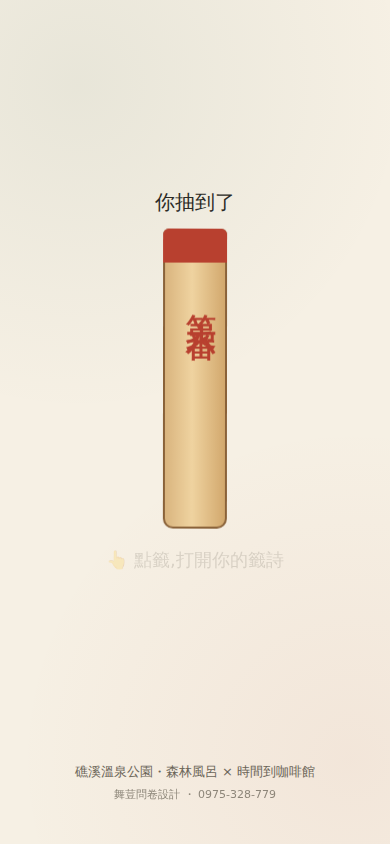
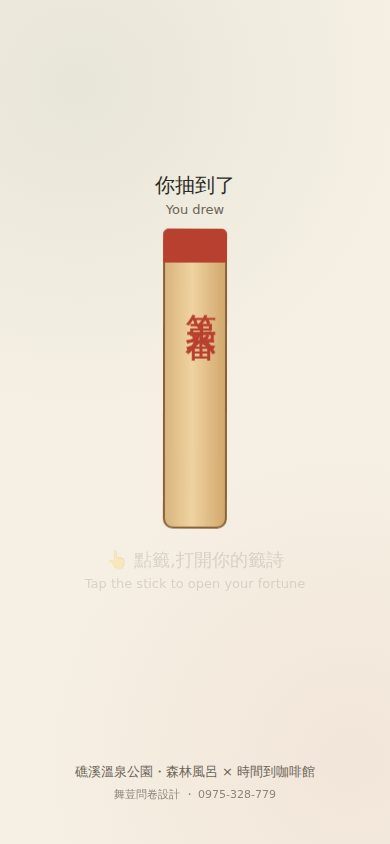
御神籤改 12 支籤(新增花路吉、拼圖吉、自在吉、快樂吉)、恢復開運指南與不同幸運飲品、題目與籤詩加英文
Claude-Session: https://claude.ai/code/session_01F6yyhJXwLMGLQPqwSGyNKN

Changed region(s): [[0.4, 0.1848, 0.5846, 0.2773]]

diff --git a/行銷/森林風呂御神籤/Index.html b/行銷/森林風呂御神籤/Index.html
@@ -127,9 +127,15 @@
   @keyframes unfold { from { transform: scaleY(.1); opacity: 0; } to { transform: none; opacity: 1; } }
   .fno { font-family: "Noto Serif TC", serif; color: var(--ink-2); letter-spacing: .3em; }
   .jie { font-family: "Noto Serif TC", serif; font-weight: 700; color: var(--forest); font-size: 17px; margin: 0 0 12px; }
-  .cafe { background: var(--forest-2); border-radius: 10px; padding: 8px 12px; font-size: 16px; line-height: 1.6; }
-  .cafe b { color: var(--forest); }
-  .cafe span { font-size: 13px; color: var(--ink-2); }
+  .en { display: block; font-family: "Noto Sans TC", system-ui, sans-serif; font-weight: 400; font-size: 13px; color: var(--ink-2); line-height: 1.35; letter-spacing: 0; }
+  .qtext .en { font-size: 14px; margin-top: 2px; }
+  .opt .en { font-size: 12px; }
+  .chip .en { display: inline; font-size: 11px; }
+  .items { text-align: left; border-top: 1px dashed var(--torii-2); border-bottom: 1px dashed var(--torii-2); padding: 6px 2px; margin-bottom: 10px; font-size: 15px; line-height: 1.7; }
+  .items b { color: var(--torii); display: inline-block; width: 3.2em; }
+  .cafe { background: var(--forest-2); border-radius: 10px; padding: 8px 12px; text-align: left; font-size: 15px; line-height: 1.6; }
+  .cafe .h { font-weight: 700; color: var(--forest); }
+  .cafe .note2 { font-size: 12px; color: var(--ink-2); }
   .claim { margin-top: 12px; background: var(--torii); color: #fff; border-radius: 14px; padding: 12px; text-align: center; box-shadow: 0 4px 0 #8c2e21; }
   .claim .big { font-size: 20px; font-weight: 900; }
   .claim .big2 { font-size: 18px; font-weight: 700; line-height: 1.5; }
@@ -151,7 +157,7 @@
   <!-- 開始 -->
   <section class="screen on" id="s-start">
     <h1>森林風呂御神籤</h1>
-    <p class="sub">泡完湯,來抽一支好運籤吧 ♨</p>
+    <p class="sub">泡完湯,來抽一支好運籤吧 ♨<span class="en">Forest Onsen Fortune — draw your lucky slip!</span></p>
     <div class="tube-box">
       <svg class="tube" id="tube" viewBox="0 0 180 230" aria-hidden="true">
         <g fill="#c9a06d" stroke="#8a6239" stroke-width="2">
@@ -172,9 +178,9 @@
         <text x="90" y="174" text-anchor="middle" font-family="Noto Serif TC, serif" font-weight="900" font-size="22" fill="#b8402f">籤</text>
       </svg>
     </div>
-    <div class="gift">答完 <b>10</b> 支籤,送你<br><b>時間到咖啡館 折 30 元</b> ☕</div>
-    <button class="btn" id="btn-draw">搖一搖・抽籤</button>
-    <p class="note">大約 2 分鐘・不用填名字電話</p>
+    <div class="gift">答完 <b>10</b> 支籤,送你<br><b>時間到咖啡館 折 30 元</b> ☕<span class="en">Answer 10 quick questions, get NT$30 off at Time Café</span></div>
+    <button class="btn" id="btn-draw">搖一搖・抽籤 <span style="font-size:15px;font-weight:500">Draw</span></button>
+    <p class="note">大約 2 分鐘・不用填名字電話<span class="en">About 2 minutes · No name or phone needed</span></p>
   </section>
 
   <!-- 題目 -->
@@ -193,10 +199,10 @@
     <div class="sticks" id="sticks2"></div>
     <div class="qcard">
       <div class="qno">最後一句話</div>
-      <div class="qtext" style="margin-top:14px">有什麼想跟我們說的嗎?💬</div>
+      <div class="qtext" style="margin-top:14px">有什麼想跟我們說的嗎?💬<span class="en">Anything you'd like to tell us? (optional)</span></div>
       <textarea id="msg" maxlength="300" placeholder="可以不寫,直接按下面抽籤詩"></textarea>
       <div class="mail">
-        <div class="grp-label">📮 想收到森林風呂的優惠和活動消息嗎?(選填)</div>
+        <div class="grp-label">📮 想收到森林風呂的優惠和活動消息嗎?(選填)<span class="en">Get Forest Onsen offers by email (optional)</span></div>
         <input type="email" id="email" maxlength="100" autocomplete="email" inputmode="email" placeholder="留下 email(不留也能領咖啡券)">
         <label class="agree"><input type="checkbox" id="agree"><span>我同意提供 email 收取優惠訊息(<a href="#" id="pv-toggle">個資說明</a>)</span></label>
         <div class="privacy" id="privacy" hidden>
@@ -211,35 +217,38 @@
       </div>
     </div>
     <div style="height:16px"></div>
-    <button class="btn" id="btn-submit">看我的籤詩 🎋</button>
+    <button class="btn" id="btn-submit">看我的籤詩 🎋 <span style="font-size:15px;font-weight:500">See my fortune</span></button>
     <button class="btn ghost" id="btn-back2">← 上一籤</button>
   </section>
 
   <!-- 抽到的籤支 -->
   <section class="screen" id="s-stick">
     <div class="stickwrap">
-      <div class="serif" style="font-size:20px">你抽到了</div>
+      <div class="serif" style="font-size:20px">你抽到了<span class="en">You drew</span></div>
       <div class="bigstick" id="bigstick"><span id="stickno"></span></div>
-      <div class="tap">👆 點籤,打開你的籤詩</div>
+      <div class="tap">👆 點籤,打開你的籤詩<span class="en">Tap the stick to open your fortune</span></div>
     </div>
   </section>
 
-  <!-- 結果(手機一個畫面看完) -->
+  <!-- 結果 -->
   <section class="screen" id="s-result">
-    <div class="again" id="again" hidden>今天已經抽過囉 😊</div>
+    <div class="again" id="again" hidden>今天已經抽過囉 😊 <span style="font-weight:400;font-size:13px">Already drawn today</span></div>
     <div class="omikuji" id="slip">
       <div class="fno" id="fno"></div>
       <div class="luck" id="luck"></div>
+      <div class="en" id="luck-en" style="margin:-4px 0 6px;font-size:14px"></div>
       <div class="poem" id="poem"></div>
       <div class="jie" id="jie"></div>
-      <div class="cafe">☕ 今日幸運飲品:<b>宜蘭金棗茶</b><br><span>時間到咖啡館・就在礁溪溫泉公園裡</span></div>
+      <div class="items" id="items"></div>
+      <div class="cafe" id="cafe"></div>
     </div>
     <div class="claim">
       <div class="big">🎁 時間到咖啡館 折 30 元</div>
       <div class="coupon"><span class="no" id="cno"></span><span class="live"><span class="dot"></span><span id="clock"></span></span></div>
       <div class="big2">👉 出示此畫面到<b>【森林風呂櫃台】</b><br>索取咖啡券</div>
+      <div style="font-size:13px;opacity:.95;margin-top:4px">Show this screen at the Forest Onsen counter<br>to get your NT$30 Time Café coupon</div>
     </div>
-    <div class="rules">限公園一館使用・每次限用 1 張・每人每天 1 次・不兌現不找零</div>
+    <div class="rules">限公園一館使用・每次限用 1 張・每人每天 1 次・不兌現不找零<br>One coupon per visit · One per person per day · No cash value</div>
   </section>
 
   <div class="foot">礁溪溫泉公園・森林風呂 × 時間到咖啡館
@@ -312,16 +321,56 @@
   var AGES = ["20 以下", "21-30 歲", "31-40 歲", "41-50 歲", "51-60 歲", "61-70 歲", "71 以上"];
   var FREQS = ["今天第一次來 🎉", "一年 3 次以下", "一年 3~10 次", "一年 10 次以上", "天天都來 😎"];
 
-  // 籤詩(w=抽中權重,目前 8 種機率相同);幸運飲品統一為宜蘭金棗茶(寫在結果頁 HTML)
+  // 12 支籤(w=抽中權重,目前機率相同)。飲品需為時間到咖啡館實際供應品項
   var FORTUNES = [
-    { n: "第一番", l: "時間到大吉", w: 1, p: "時到花開香滿徑<br>湯暖心安福自臨", k: "大有進益,放手去做便吉利" },
-    { n: "第二番", l: "大吉", w: 1, p: "雲開見月心所願<br>一路春風到眼前", k: "如願以償" },
-    { n: "第三番", l: "身體吉", w: 1, p: "溫泉潤骨身輕盈<br>一夜好眠到天明", k: "身體是最好的本錢,好好照顧它" },
-    { n: "第四番", l: "咖啡館吉", w: 1, p: "一杯香醇留午後<br>好友相伴話悠悠", k: "好的相遇,就在轉角的咖啡館" },
-    { n: "第五番", l: "泡湯吉", w: 1, p: "竹林風過湯煙起<br>煩惱隨水悄悄離", k: "會是一段愉快的旅程" },
-    { n: "第六番", l: "森林吉", w: 1, p: "綠蔭深處聞鳥語<br>心靜自然見光明", k: "放慢腳步,好運就在身邊" },
-    { n: "第七番", l: "福吉", w: 1, p: "靜水深流藏智慧<br>細細思量見花開", k: "靜下心來好好思考,定有成果" },
-    { n: "第八番", l: "光明吉", w: 1, p: "心若坦蕩天自晴<br>一路光明照前程", k: "保持一顆坦率的心,是邁向光明人生的起點" }
+    { n: "第一番", l: "時間到大吉", le: "Great Fortune · Time Has Come", w: 1, p: "時到花開香滿徑<br>湯暖心安福自臨",
+      k: "大有進益,放手去做便吉利", ke: "Great progress ahead — go for it and luck will follow.",
+      wish: "時機到了,勇敢開口就能成", health: "氣色正好,神清氣爽", travel: "隨心出發,處處有驚喜",
+      drink: "宜蘭金棗茶", de: "Yilan Kumquat Tea", act: "到時間到咖啡館坐一下,把好運喝進心裡" },
+    { n: "第二番", l: "大吉", le: "Great Blessing", w: 1, p: "雲開見月心所願<br>一路春風到眼前",
+      k: "如願以償", ke: "Your wish will come true.",
+      wish: "心想事成", health: "精神飽滿", travel: "一路順風",
+      drink: "熱拿鐵", de: "Hot Latte", act: "跟今天同行的人說聲謝謝" },
+    { n: "第三番", l: "身體吉", le: "Blessing of Well-being", w: 1, p: "溫泉潤骨身輕盈<br>一夜好眠到天明",
+      k: "自性可以創造任何可能", ke: "Your true self can create anything.",
+      wish: "慢慢來,會實現", health: "大吉,今晚好眠", travel: "放慢腳步,不趕行程",
+      drink: "宜蘭金棗茶", de: "Yilan Kumquat Tea", act: "泡完湯記得多喝水" },
+    { n: "第四番", l: "咖啡館吉", le: "Café Blessing", w: 1, p: "一杯香醇留午後<br>好友相伴話悠悠",
+      k: "每一塊拼圖都是一種滋味", ke: "Every piece of the puzzle has its own flavor.",
+      wish: "與人分享,好事加倍", health: "心情放鬆,身體自然好", travel: "在喜歡的地方多留一會兒",
+      drink: "手沖咖啡", de: "Pour-over Coffee", act: "到咖啡館點一杯,和朋友聊聊天" },
+    { n: "第五番", l: "泡湯吉", le: "Hot Spring Blessing", w: 1, p: "竹林風過湯煙起<br>煩惱隨水悄悄離",
+      k: "會是一段愉快的旅程", ke: "It will be a delightful journey.",
+      wish: "放下煩惱,願望自來", health: "筋骨舒暢", travel: "大吉,處處是好風景",
+      drink: "冰美式", de: "Iced Americano", act: "泡完湯,到咖啡館喝杯涼的" },
+    { n: "第六番", l: "森林吉", le: "Forest Blessing", w: 1, p: "綠蔭深處聞鳥語<br>心靜自然見光明",
+      k: "善意的存在,是路徑的發展", ke: "Kindness shapes the path ahead.",
+      wish: "耐心等待,時機將至", health: "多走走,身心舒暢", travel: "在公園散散步,會有小驚喜",
+      drink: "宜蘭金棗茶", de: "Yilan Kumquat Tea", act: "在公園散步十分鐘,再去咖啡館歇歇腳" },
+    { n: "第七番", l: "福吉", le: "Blessing of Fortune", w: 1, p: "靜水深流藏智慧<br>細細思量見花開",
+      k: "靜下心來好好思考,定有成果", ke: "Calm your mind and think it through — success will come.",
+      wish: "想清楚再出發,必有收穫", health: "早睡早起", travel: "計畫好再出門",
+      drink: "熱美式", de: "Hot Americano", act: "找個安靜角落,喝杯咖啡想一想" },
+    { n: "第八番", l: "光明吉", le: "Bright Blessing", w: 1, p: "心若坦蕩天自晴<br>一路光明照前程",
+      k: "保持一顆坦率的心,是邁向光明人生的起點", ke: "An honest heart is the first step to a bright life.",
+      wish: "真心相待,自有回應", health: "心情開朗,身體輕鬆", travel: "一路晴朗,放心出發",
+      drink: "冰拿鐵", de: "Iced Latte", act: "把今天的好心情,分享給身邊的人" },
+    { n: "第九番", l: "花路吉", le: "Flower Path Blessing", w: 1, p: "一道微光照前方<br>花開滿路送芬芳",
+      k: "送上一道光,走向花路", ke: "A ray of light guides you onto a path of flowers.",
+      wish: "心中所盼,正在路上", health: "神采奕奕", travel: "沿途花開,處處美景",
+      drink: "宜蘭金棗茶", de: "Yilan Kumquat Tea", act: "拍一張公園的花,留住今天的光" },
+    { n: "第十番", l: "拼圖吉", le: "Puzzle Blessing", w: 1, p: "一片一片拼人生<br>酸甜滋味皆是真",
+      k: "人生是創造披薩的拼圖旅程", ke: "Life is a puzzle journey — built slice by slice, like a pizza.",
+      wish: "一步步拼湊,終會完整", health: "均衡飲食,元氣滿滿", travel: "走走停停,收集回憶",
+      drink: "熱拿鐵", de: "Hot Latte", act: "和朋友分享今天最開心的一件事" },
+    { n: "第十一番", l: "自在吉", le: "Blessing of Freedom", w: 1, p: "步步行來皆有意<br>心隨自在任東西",
+      k: "每個節點的意義,是自己賦予的", ke: "Every milestone means what you choose it to mean.",
+      wish: "照自己的節奏就好", health: "身心自在", travel: "隨興出發,不必趕路",
+      drink: "手沖咖啡", de: "Pour-over Coffee", act: "找個喜歡的位子,慢慢品嚐" },
+    { n: "第十二番", l: "快樂吉", le: "Blessing of Joy", w: 1, p: "笑迎晨光心自暖<br>此刻便是樂開端",
+      k: "準備快樂吧,每刻都是快樂的起點", ke: "Get ready to be happy — every moment is a new start of joy.",
+      wish: "好事就在眼前", health: "笑口常開", travel: "開心出門,平安回家",
+      drink: "冰拿鐵", de: "Iced Latte", act: "對著鏡子笑一個" }
   ];
   function drawFortune() {
     var total = 0, i, r;
@@ -330,6 +379,60 @@
     for (i = 0; i < FORTUNES.length; i++) { r -= FORTUNES[i].w; if (r < 0) return i; }
     return FORTUNES.length - 1;
   }
+  // 題目與選項英文(顯示用,存進試算表的仍是中文)
+  var EN = {
+    "今天的溫泉水,泡起來怎麼樣?": "How was the hot spring water today?",
+    "湯區環境乾淨嗎?": "Was the bathing area clean?",
+    "你從哪裡來?": "Where are you from?",
+    "整體來說,今天在森林風呂開心嗎?": "Overall, did you enjoy Forest Onsen today?",
+    "公園的風景,看起來舒服嗎?": "How do you like the park scenery?",
+    "公園走道、草地乾不乾淨?": "Were the park paths and lawns clean?",
+    "公園的廁所(含泡腳池旁)乾淨嗎?": "Were the park restrooms clean?",
+    "泡腳池乾淨嗎?": "Was the foot bath clean?",
+    "需要幫忙時,工作人員有主動協助、馬上處理嗎?": "Did staff help you promptly when needed?",
+    "垃圾分類、資源回收做得好嗎?": "How is the recycling and waste sorting?",
+    "園區防蚊蟲做得如何?🦟": "How is mosquito control in the park?",
+    "風呂的廁所乾淨嗎?": "Were the onsen restrooms clean?",
+    "櫃台人員親切嗎?": "Were the counter staff friendly?",
+    "在櫃台等候的時間,還可以接受嗎?": "Was the waiting time at the counter OK?",
+    "園區店家的服務怎麼樣?": "How was the service at shops in the park?",
+    "停車方便嗎?": "Was parking convenient?",
+    "停車場好不好找?": "Was the parking lot easy to find?",
+    "會推薦朋友來森林風呂嗎?": "Would you recommend Forest Onsen to friends?",
+    "礁溪溫泉公園的經營,有讓宜蘭觀光更好嗎?": "Does the park make Yilan tourism better?",
+    "有幫宜蘭的觀光形象加分嗎?": "Does it improve Yilan's tourism image?",
+    "園區有呈現宜蘭在地特色(在地食材、文化設計、自然風格)嗎?": "Does the park show local Yilan features?",
+    "園區的活動或佈置,讓你更認識宜蘭的文化或自然嗎?": "Did the park help you learn about Yilan?",
+    "園區有提供宜蘭觀光資訊(景點、餐廳、活動推薦)嗎?": "Did you find Yilan travel info here?",
+    "園區的免費公益活動、按摩小站,你覺得如何?": "How are the free events and massage corner?",
+    "在地民眾免費泡湯回饋活動,你覺得如何?": "How is the free bathing program for locals?",
+    "與佛光大學合作的在地創生商品,你覺得如何?": "How are the local products made with Fo Guang University?",
+    "這趟在宜蘭住幾晚?": "How many nights are you staying in Yilan?",
+    "今天跟誰一起來?": "Who did you come with today?",
+    "怎麼知道森林風呂的?": "How did you hear about Forest Onsen?",
+    "這趟還會去宜蘭哪裡?(選最主要的)": "Where else in Yilan are you going?",
+    "泡湯的時候,腦袋在想什麼?": "What's on your mind while soaking?",
+    "泡完湯,最想來一杯什麼?": "What would you like to drink after the bath?",
+    "如果森林風呂是一種動物,牠是?": "If Forest Onsen were an animal, it'd be…",
+    "非常滿意": "Very satisfied", "滿意": "Satisfied", "普通": "Neutral", "不滿意": "Dissatisfied", "非常不滿意": "Very dissatisfied",
+    "今天沒需要幫忙": "Didn't need help", "今天沒開車": "Didn't drive", "不清楚/沒注意": "Not sure",
+    "一定會": "Definitely", "應該會": "Probably", "還不確定": "Not sure yet", "應該不會": "Probably not",
+    "宜蘭在地": "Yilan local", "基隆、台北、新北": "Keelung / Taipei / New Taipei", "桃園、新竹、苗栗": "Taoyuan / Hsinchu / Miaoli",
+    "台中、彰化、南投": "Taichung / Changhua / Nantou", "雲林、嘉義、台南": "Yunlin / Chiayi / Tainan", "高雄、屏東": "Kaohsiung / Pingtung",
+    "花蓮、台東": "Hualien / Taitung", "離島": "Outlying islands", "國外": "From overseas",
+    "當天來回": "Day trip", "住 1 晚": "1 night", "住 2 晚": "2 nights", "住 3 晚以上": "3+ nights", "我住宜蘭": "I live in Yilan",
+    "自己來": "Alone", "伴侶": "Partner", "家人(帶小孩)": "Family with kids", "家人(帶長輩)": "Family with elders", "朋友": "Friends", "旅行團": "Tour group",
+    "親友推薦": "Friends & family", "Google 地圖": "Google Maps", "IG、FB": "Instagram / Facebook", "YouTube": "YouTube",
+    "旅遊網站、部落格": "Travel sites / blogs", "路過看到": "Walked by", "老客人了": "Regular visitor",
+    "只在礁溪": "Only Jiaoxi", "頭城、外澳": "Toucheng / Wai'ao", "宜蘭市": "Yilan City", "羅東": "Luodong",
+    "冬山、五結、三星": "Dongshan / Wujie / Sanxing", "蘇澳、南方澳": "Su'ao / Nanfang'ao", "大同、太平山": "Datong / Taipingshan", "還沒決定": "Not decided",
+    "什麼都沒想,放空中": "Nothing, just relaxing", "等一下吃什麼": "What to eat next", "工作…(不要想了)": "Work… (stop it!)",
+    "人生的大道理": "The meaning of life", "好想再泡一下": "I want to soak longer",
+    "熱咖啡": "Hot coffee", "冰咖啡": "Iced coffee", "金棗飲品": "Kumquat drink", "甜點配咖啡": "Dessert & coffee", "先躺一下再說": "A nap first",
+    "水豚(泡到不想動)": "Capybara", "日本猴(泡湯專家)": "Snow monkey", "烏龜(慢慢來)": "Turtle", "貓(舒服到瞇眼)": "Cat",
+    "今天第一次來 🎉": "First visit", "一年 3 次以下": "< 3 times a year", "一年 3~10 次": "3–10 times a year", "一年 10 次以上": "10+ times a year", "天天都來 😎": "Every day"
+  };
+  function en(t) { return EN[t] ? '<span class="en">' + EN[t] + "</span>" : ""; }
   var NUM = ["一", "二", "三", "四", "五", "六", "七", "八", "九", "十"];
   var TOTAL = 10;
 
@@ -369,11 +472,11 @@
     var body = $("qbody");
 
     if (q.basic) {
-      var h = '<div class="qtext">最後一籤!你是…</div>';
-      h += '<div class="grp-label">年齡</div><div class="chips" data-k="age">';
+      var h = '<div class="qtext">最後一籤!你是…<span class="en">Last one! About you</span></div>';
+      h += '<div class="grp-label">年齡 <span class="en" style="display:inline">Age</span></div><div class="chips" data-k="age">';
       AGES.forEach(function (a) { h += '<button class="chip' + (answers.age === a ? " sel" : "") + '" data-v="' + a + '">' + a + "</button>"; });
-      h += '</div><div class="grp-label">多久來泡一次?</div><div class="chips" data-k="freq">';
-      FREQS.forEach(function (a) { h += '<button class="chip' + (answers.freq === a ? " sel" : "") + '" data-v="' + a + '">' + a + "</button>"; });
+      h += '</div><div class="grp-label">多久來泡一次? <span class="en" style="display:inline">How often do you visit?</span></div><div class="chips" data-k="freq">';
+      FREQS.forEach(function (a) { h += '<button class="chip' + (answers.freq === a ? " sel" : "") + '" data-v="' + a + '">' + a + " " + en(a) + "</button>"; });
       h += "</div>";
       body.innerHTML = h;
       var groups = body.querySelectorAll(".chips");
@@ -389,11 +492,11 @@
     }
 
     var opts = (q.opts || SCALE).slice();
-    var h2 = '<div class="qtext">' + q.t + '</div><div class="opts">';
+    var h2 = '<div class="qtext">' + q.t + en(q.t) + '</div><div class="opts">';
     opts.forEach(function (o) {
-      h2 += '<button class="opt' + (answers[q.id] === o.v ? " sel" : "") + '" data-v="' + o.v + '"><span class="em">' + o.em + "</span>" + o.v + "</button>";
+      h2 += '<button class="opt' + (answers[q.id] === o.v ? " sel" : "") + '" data-v="' + o.v + '"><span class="em">' + o.em + "</span><span>" + o.v + en(o.v) + "</span></button>";
     });
-    if (q.extra) h2 += '<button class="opt soft' + (answers[q.id] === q.extra ? " sel" : "") + '" data-v="' + q.extra + '"><span class="em">🤷</span>' + q.extra + "</button>";
+    if (q.extra) h2 += '<button class="opt soft' + (answers[q.id] === q.extra ? " sel" : "") + '" data-v="' + q.extra + '"><span class="em">🤷</span><span>' + q.extra + en(q.extra) + "</span></button>";
     h2 += "</div>";
     body.innerHTML = h2;
     body.querySelector(".opts").addEventListener("click", function (e) {
@@ -416,8 +519,12 @@
     $("fno").textContent = "森林風呂御神籤・" + f.n;
     $("luck").textContent = f.l;
     $("luck").style.fontSize = f.l.length > 3 ? "38px" : "";
+    $("luck-en").textContent = f.le;
     $("poem").innerHTML = f.p;
-    $("jie").innerHTML = "(" + (f.k.length > 12 ? f.k.replace(",", ",<br>") : f.k) + ")";
+    $("jie").innerHTML = "(" + (f.k.length > 12 ? f.k.replace(",", ",<br>") : f.k) + ")" + '<span class="en">' + f.ke + "</span>";
+    $("items").innerHTML = "<div><b>願望</b>" + f.wish + "</div><div><b>健康</b>" + f.health + "</div><div><b>旅行</b>" + f.travel + "</div>";
+    $("cafe").innerHTML = '<div class="h">☕ 時間到咖啡館 開運指南</div>今日幸運飲品:<b>' + f.drink + "</b> <span class=\"note2\">" + f.de +
+      "</span><br>開運行動:" + f.act + '<br><span class="note2">Lucky drink at Time Café, inside the park ・ IG @5wudou</span>';
     $("slip").classList.remove("open"); void $("slip").offsetWidth; $("slip").classList.add("open");
     $("cno").textContent = "No." + r.coupon;
     $("again").hidden = !repeat;

diff --git a/行銷/森林風呂御神籤/部署說明.md b/行銷/森林風呂御神籤/部署說明.md
@@ -22,7 +22,8 @@
 - 中間 8 題打散:固定 3 題(溫泉水質、湯區清潔、你從哪裡來)+ 公園/風呂/店家 14 題抽 2 + 宜蘭好在地 8 題抽 1 + 旅遊行為 4 題抽 1(住幾晚、跟誰來、怎麼知道、還去哪)+ 趣味題 3 抽 1
 - 第 10 題固定:年齡+來訪頻率;最後可留一句話(選填)
 - 最後一頁可選填 email(須勾選同意,附個資說明);email 只存在試算表,`?export` 匯出時自動排除
-- 答完先出現「第 X 番」籤支,點開看籤詩:8 種籤機率相同(時間到大吉、大吉、身體吉、咖啡館吉、泡湯吉、森林吉、福吉、光明吉),每張含籤詩、解曰與「今日幸運飲品:宜蘭金棗茶」;結果頁一個手機畫面看完
+- 答完先出現「第 X 番」籤支,點開看籤詩:12 支籤機率相同(時間到大吉、大吉、身體吉、咖啡館吉、泡湯吉、森林吉、福吉、光明吉、花路吉、拼圖吉、自在吉、快樂吉),每張含籤詩、解曰(中英)、願望/健康/旅行,以及「時間到咖啡館開運指南」(各籤不同的幸運飲品+開運行動)
+- 題目、選項、籤名、解曰、領券提醒皆附英文小字(給外國遊客);存進試算表的仍是中文
 - 籤詩下方紅色大字提醒:出示畫面到【森林風呂櫃台】索取咖啡券
 - 頁尾小字署名:舞荳問卷設計 ・ 0975-328-779
 
